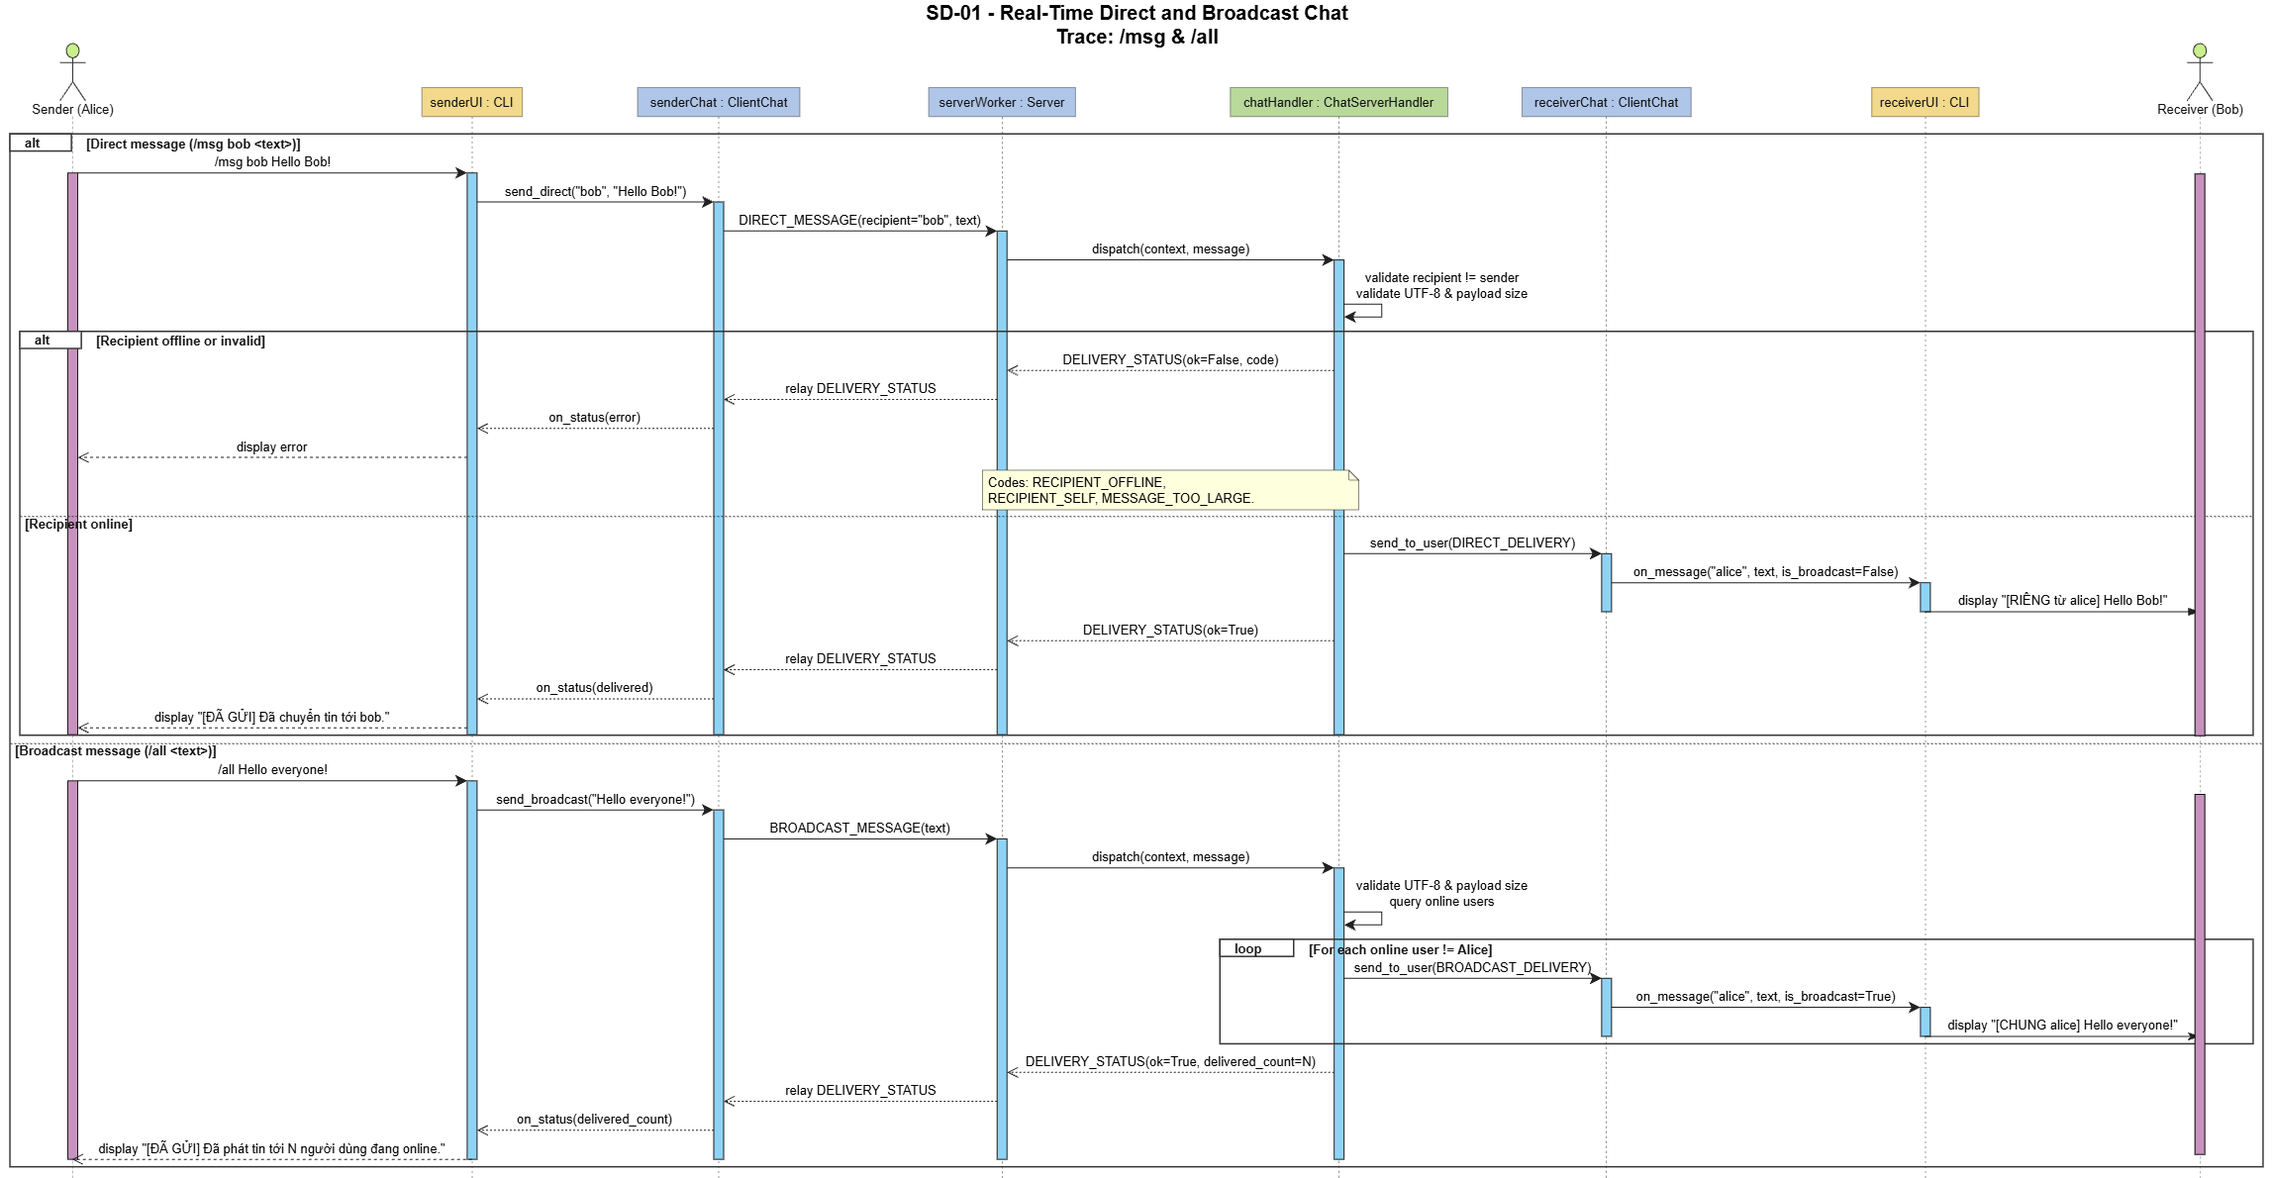
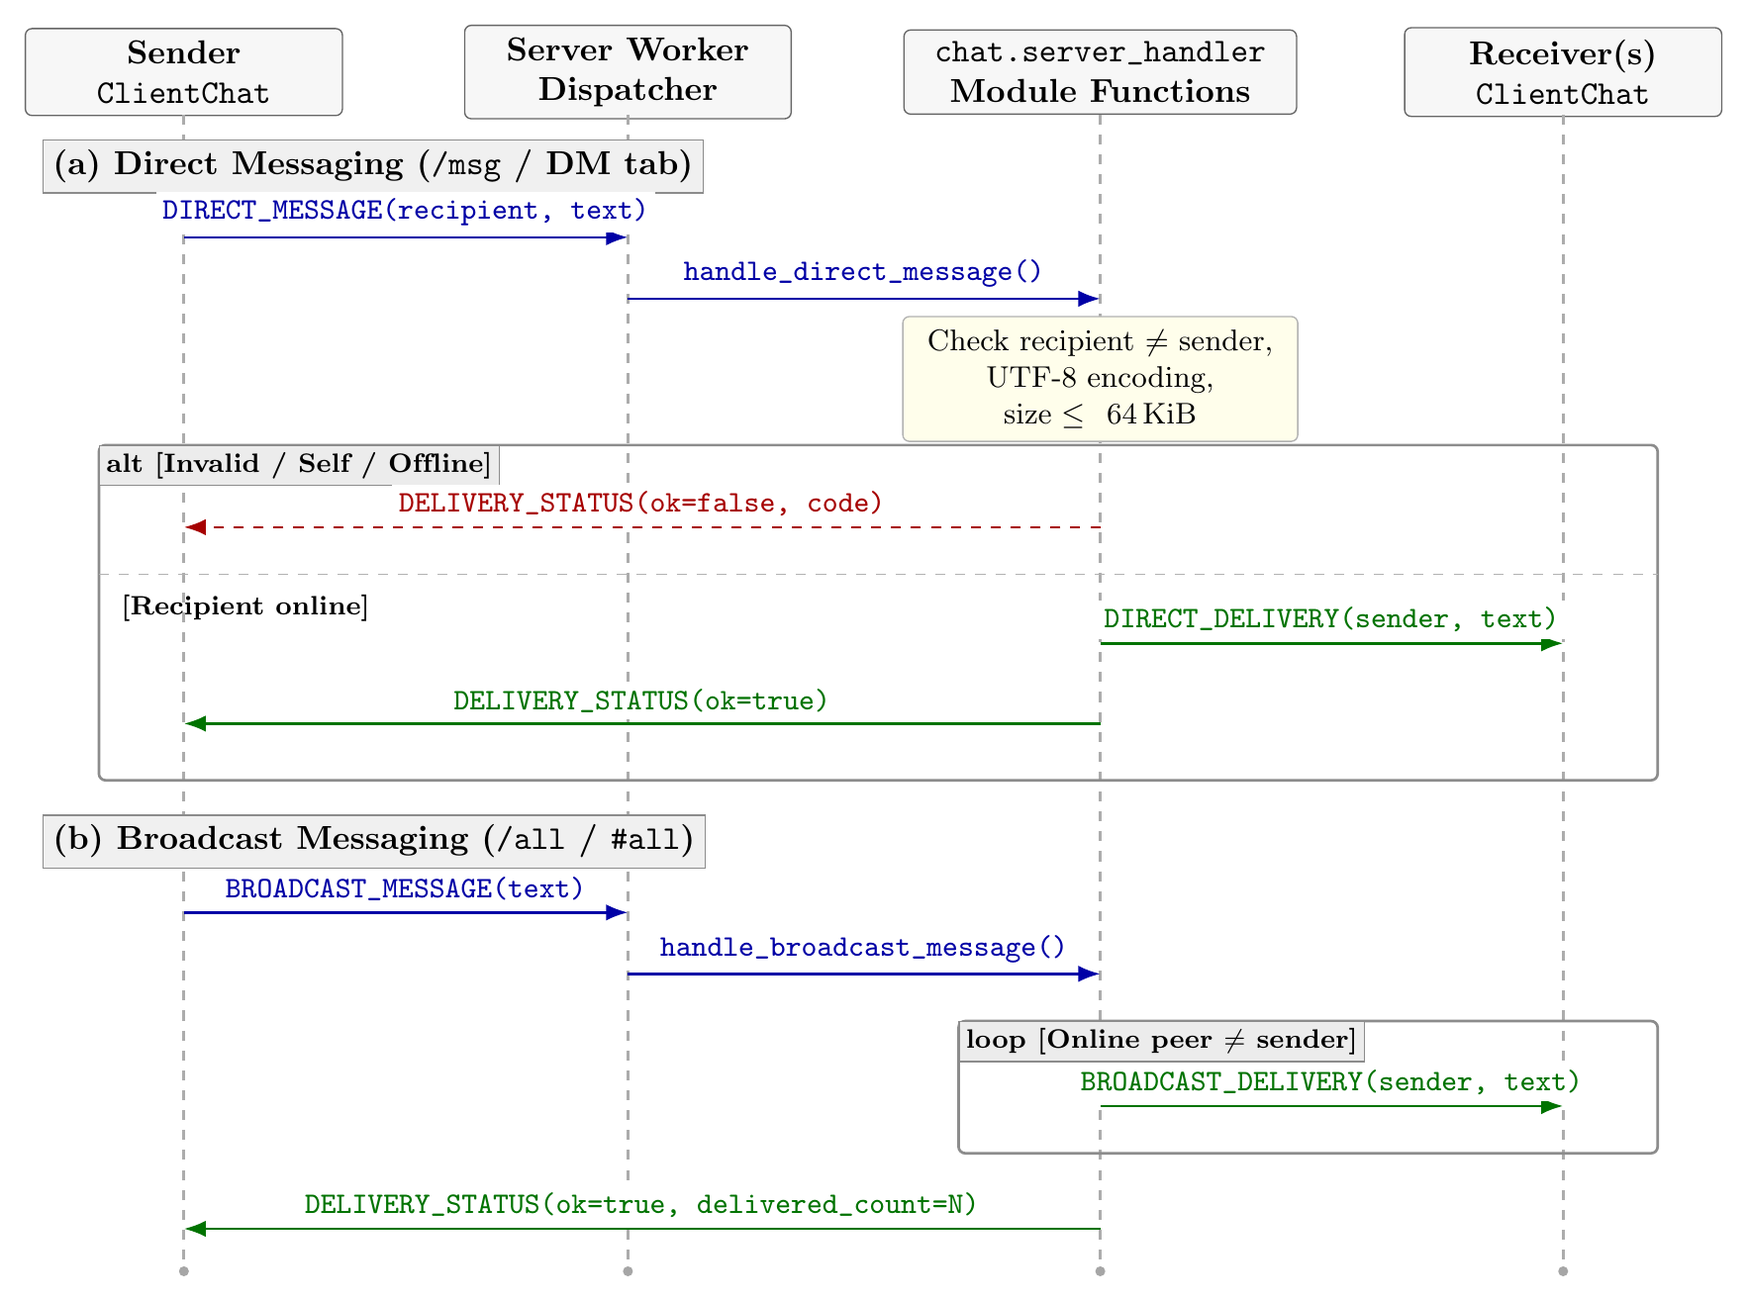
docs: update sequence diagrams, protocol spec, and test counts

diff --git a/docs/test_results.md b/docs/test_results.md
@@ -12,14 +12,14 @@ Hệ thống kiểm thử tự động sử dụng thư viện chuẩn `unittest
   ```bash
   python -m tests.transfer.quick_local_test
   ```
-- Tổng số ca kiểm thử tự động: **129 tests** — kết quả **129/129 đạt (`OK`)** (không lỗi, không cảnh báo rò rỉ file handle).
+- Tổng số ca kiểm thử tự động: **132 tests** — kết quả **132/132 đạt (`OK`)** (không lỗi, không cảnh báo rò rỉ file handle).
 
 ## Phạm vi kiểm thử theo phân hệ
 
-### 1. Hạ tầng mạng & Tích hợp End-to-End (`tests/infrastructure/test_server_infrastructure.py`) — 28 tests
+### 1. Hạ tầng mạng & Tích hợp End-to-End (`tests/infrastructure/test_server_infrastructure.py`) — 29 tests
 - Kiểm tra chuẩn hóa username (`3..20` ký tự ASCII hợp lệ), tách frame TCP bị phân mảnh nhiều gói, từ chối frame vượt quá `1 MB` và JSON sai định dạng.
 - Kiểm tra định tuyến trong `MessageDispatcher`, quản lý phiên `UserRegistry` (trùng tên, dọn phiên hết hạn, khóa đối chiếu định danh socket `remove_if_same`).
-- Kiểm tra xác thực `UDP_HEARTBEAT` bằng HMAC-SHA256 (lệch đồng hồ, sai IP, replay timestamp cũ, sai kiểu dữ liệu/bool, từ chối chữ ký non-ASCII Unicode và bảo đảm luồng `udp_service` tiếp tục sống sau gói tin hỏng), lọc phản hồi `UDP_DISCOVERY_RESPONSE` sai kiểu, cùng kiểm tra đọc `config.json` đầy đủ (fallback `config.example.json` khi thiếu tệp, báo `ValueError` khi thiếu khóa hoặc sai miền giá trị).
+- Kiểm tra xác thực `UDP_HEARTBEAT` bằng HMAC-SHA256 (lệch đồng hồ, sai IP, replay timestamp cũ, sai kiểu dữ liệu/bool, từ chối chữ ký non-ASCII Unicode và bảo đảm luồng `udp_service` tiếp tục sống sau gói tin hỏng), lọc `protocol_version` dạng `bool` hoặc số thực `1.0` ở cả server và client discovery, cùng kiểm tra đọc `config.json` đầy đủ (fallback `config.example.json` khi thiếu tệp, báo `ValueError` khi thiếu khóa hoặc sai miền giá trị).
 - Kiểm tra tính toàn vẹn của phiên vừa đăng nhập lại khi luồng kết nối cũ thoát muộn; kiểm tra đầu vào `ClientSession.connect` và đóng an toàn trong `logout`.
 - **Kiểm thử Live TLS + UDP Loopback E2E:** Khởi chạy server thật với chứng chỉ TLS (`certs/`) và UDP service thật trên cổng ephemeral; chạy trọn quy trình `discover_server()`, đăng nhập 2 client `alice` và `bob`, giữ heartbeat HMAC, trao đổi tin nhắn broadcast/direct và truyền file nhị phân đa chunk (~78 KB) kèm kiểm chứng SHA-256 tệp đích.
 
@@ -29,11 +29,11 @@ Hệ thống kiểm thử tự động sử dụng thư viện chuẩn `unittest
 - Đảm bảo callback báo lỗi của UI không làm sập luồng đọc mạng nền; kiểm tra luồng in bất đồng bộ tương thích `prompt_toolkit`.
 - Kiểm tra hướng dẫn cú pháp cho lệnh thiếu đối số (`/msg`, `/all`, `/sendfile`) và hoàn tác hàng đợi `/sendfile all` khi gửi yêu cầu `LIST_ONLINE` thất bại.
 
-### 3. Truyền tập tin & Toàn vẹn dữ liệu (`tests/transfer/`) — 73 tests
-- `test_integrity.py`: Kiểm tra `SHA-256`, metadata tệp 0 byte / nhiều chunk, kiểm chứng size/hash và các hàm làm sạch/ràng buộc (`is_valid_transfer_id`, `is_safe_filename`, `sanitize_filename`, `parse_non_negative_int`).
+### 3. Truyền tập tin & Toàn vẹn dữ liệu (`tests/transfer/`) — 75 tests
+- `test_integrity.py`: Kiểm tra `SHA-256`, metadata tệp 0 byte / nhiều chunk, kiểm chứng size/hash và các hàm làm sạch/ràng buộc (`is_valid_transfer_id`, `is_safe_filename`, `sanitize_filename`, `parse_non_negative_int` chặn chặt `bool`/`float`/chuỗi/số âm).
 - `test_receiver.py`: Kiểm tra tệp 0 byte, ghi nhiều chunk và kiểm tra SHA-256, chống trùng tên tệp đích, chặn path traversal POSIX/Windows/tên rỗng, chống ép kiểu `bool` ở `filesize`/`total_chunks`/`chunk_index`, xóa tệp `.part` mồ côi lúc khởi động nhưng giữ nguyên các file hoàn chỉnh có chứa `.part` như `archive.part1.rar`.
 - `test_sender.py`: Kiểm tra phát `FILE_INIT`, stream nền theo `FILE_ACCEPT`, chống khởi tạo trùng luồng worker khi nhận nhiều `FILE_ACCEPT`, hủy phiên đang truyền, xóa sạch session trên `cleanup()`, kiểm tra đường dẫn rỗng ở `send_file()`, cô lập lỗi giải mã Base64 theo từng phiên để không ảnh hưởng lượt tải song song khác, giữ nguyên `direction`/`peer` trong sự kiện `FILE_ERROR`, và lan truyền cờ `is_broadcast` hai chiều khi gửi file qua `#all`.
-- `test_server_handler.py`: Kiểm tra đăng ký toàn bộ `FILE_*` handlers, kiểm tra metadata (`filename`, `session_id`, `filesize`, `bool`, `is_broadcast` phải là `bool`, `receiver` rỗng, tự gửi cho bản thân), xác thực máy trạng thái & phân quyền vai trò, thu dọn `timeout` và ngắt kết nối (kể cả không gửi trùng lỗi sau khi phiên đã kết thúc bằng `FILE_RESULT`/`FILE_ERROR`), cùng cô lập `ValueError` vs `OSError` trong bridge gửi dữ liệu.
+- `test_server_handler.py`: Kiểm tra đăng ký toàn bộ `FILE_*` handlers, kiểm tra metadata (`filename`, `session_id`, `filesize`, `bool`, `is_broadcast` phải là `bool`, `receiver` rỗng, tự gửi cho bản thân), xác thực máy trạng thái & phân quyền vai trò (kể cả chặn `FILE_RESULT` sớm trước `FILE_END` đối với tệp $> 0$ byte trong khi vẫn giữ luồng tệp 0 byte), thu dọn `timeout` và ngắt kết nối (kể cả không gửi trùng lỗi sau khi phiên đã kết thúc bằng `FILE_RESULT`/`FILE_ERROR`), cô lập lỗi chuyển tiếp một phiên khi người nhận vẫn đang online để không làm gián đoạn các phiên truyền song song khác, cùng cô lập `ValueError` vs `OSError` trong bridge gửi dữ liệu.
 - `test_transfer.py` & `quick_local_test.py`: Xác nhận truyền tải end-to-end (tệp rỗng 0 byte, tệp nhỏ, tệp nhiều chunk, dữ liệu nhị phân thô `0..255`, ngắt kết nối đột ngột dọn `.part`, sai lệch hash).
 
 ### 4. Giao diện Desktop PySide6 GUI (`tests/ui/test_gui_session_and_models.py`) — 21 tests

diff --git a/docs/architecture.md b/docs/architecture.md
@@ -49,7 +49,7 @@
 - `message_dispatcher.py`: Định tuyến thông điệp JSON theo trường `type` thông qua `ClientContext` (tách biệt logic nghiệp vụ khỏi socket thô).
 - `udp_service.py`: Đáp ứng bản tin `UDP_DISCOVER`, tiếp nhận `UDP_HEARTBEAT` ký HMAC và chạy nền dọn các phiên hết hạn heartbeat (`timeout_seconds = 35`). Mỗi vòng lặp/gói tin được cô lập ngoại lệ với logging đầy đủ để một datagram sai định dạng không thể làm dừng luồng UDP; khi phiên hết hạn, dịch vụ tự động kích hoạt dọn dẹp các phiên truyền file liên quan.
 - `server.py`: Đón kết nối TCP, thực hiện TLS handshake (giới hạn timeout pre-login tránh giữ socket treo), đăng ký phiên trong `UserRegistry`, và phân phối thông điệp tới handler của `chat` và `transfer`.
-- `client_connection.py`: Đảm nhận UDP discovery trên các địa chỉ broadcast/hướng đích (bỏ qua loopback không hợp lệ khi không cần thiết và loại bỏ phản hồi chứa kiểu dữ liệu sai như `bool` cho port/version), kết nối TLS, đăng nhập lấy `heartbeat_token`, chạy luồng nền đọc gói tin, gửi định kỳ UDP heartbeat có ký HMAC và cung cấp API công khai (`get_tls_details()`, `receiver_thread`) cho tầng UI.
+- `client_connection.py`: Đảm nhận UDP discovery trên các địa chỉ broadcast/hướng đích (bỏ qua loopback không hợp lệ khi không cần thiết và loại bỏ phản hồi chứa kiểu dữ liệu sai như `bool` hoặc số thực `float` cho `protocol_version`/`tcp_port`), kết nối TLS, đăng nhập lấy `heartbeat_token`, chạy luồng nền đọc gói tin, gửi định kỳ UDP heartbeat có gắn mã xác thực HMAC và cung cấp API công khai (`get_tls_details()`, `receiver_thread`) cho tầng UI.
 
 ![Sơ đồ trạng thái kết nối và truyền tập tin](diagrams/state_diagrams.png)
 
@@ -59,8 +59,8 @@
 ![Luồng hoạt động Chat](diagrams/chat_sequence.png)
 
 ### 4. `transfer/` — Truyền tập tin & Toàn vẹn dữ liệu
-- `integrity.py`: Tính toán `SHA-256` đọc theo luồng khối, kiểm tra kích thước/hash tệp đích (`verify_file`), đồng thời cung cấp các hàm kiểm tra an toàn dùng chung: `is_valid_transfer_id` (chặn khoảng trắng, `..`, ký tự phân cách đường dẫn), `is_safe_filename`, `sanitize_filename` (lọc path traversal Windows/POSIX về basename an toàn), và `parse_non_negative_int` (chặn giá trị `bool`, số âm và kiểu không hợp lệ).
-- `server_handler.py`: Điều phối phiên truyền file (`ServerTransferSession`) bằng máy trạng thái chặt chẽ (`INIT -> ACCEPTED -> TRANSFERRING -> WAITING_RESULT -> COMPLETED | FAILED`) dưới một khóa đồng bộ thống nhất trước khi thực hiện I/O mạng. Khi chuyển tiếp tới người nhận thất bại do lỗi tuần tự hóa (`ValueError`), bridge chỉ hủy phiên truyền thay vì đóng nhầm socket người nhận; lỗi socket (`OSError`) mới kích hoạt ngắt kết nối và thông báo `ERR_PEER_DISCONNECTED` cho bên còn lại. Server định kỳ dọn các phiên treo quá `60s`.
+- `integrity.py`: Tính toán `SHA-256` đọc theo luồng khối, kiểm tra kích thước/hash tệp đích (`verify_file`), đồng thời cung cấp các hàm kiểm tra an toàn dùng chung: `is_valid_transfer_id` (chặn khoảng trắng, `..`, ký tự phân cách đường dẫn), `is_safe_filename`, `sanitize_filename` (lọc path traversal Windows/POSIX về basename an toàn), và `parse_non_negative_int` (chỉ nhận số nguyên `int >= 0`, chặn `bool`, `float`, chuỗi và số âm).
+- `server_handler.py`: Điều phối phiên truyền file (`ServerTransferSession`) bằng máy trạng thái chặt chẽ (`INIT -> ACCEPTED -> TRANSFERRING -> WAITING_RESULT -> COMPLETED | FAILED`, riêng tệp `0` byte cho phép `INIT -> COMPLETED`) dưới một khóa đồng bộ thống nhất trước khi thực hiện I/O mạng. Khi chuyển tiếp thất bại trong `_handle_relay`, server kiểm tra `is_user_online`: nếu người nhận vẫn online (lỗi tuần tự hóa khung `ValueError`) thì chỉ hủy duy nhất phiên lỗi (`ERR_INVALID_METADATA`) mà không ảnh hưởng các phiên khác; chỉ khi mất kết nối thực sự mới gọi `on_client_disconnect` và phát `ERR_PEER_DISCONNECTED`. Server định kỳ dọn các phiên treo quá `60s`.
 - `sender.py`: Gồm `FileSender` (chia chunk `65536` byte, gắn cờ `started` chống kích hoạt trùng luồng gửi khi nhận nhiều `FILE_ACCEPT`, thu dọn an toàn khi hủy giữa chừng, gắn cờ `is_broadcast` trên `FILE_INIT` khi phát chung) và `ClientFileTransferManager` (đóng/mở gói `binary_payload_base64` qua JSON, cô lập lỗi Base64 theo đúng `session_id` bị hỏng mà không làm gián đoạn các phiên đang tải khác, giữ nguyên `direction`/`peer`/`is_broadcast` trong sự kiện gửi UI, và truyền thống nhất `DEFAULT_DOWNLOADS_DIR` cho `FileReceiver`).
 - `receiver.py`: Khởi tạo tệp tạm `.<session_id>_<safe_name>.part` trong thư mục `downloads/` (`DEFAULT_DOWNLOADS_DIR`), hoàn tất ngay lập tức đối với tệp 0 byte, ghi tuần tự theo `chunk_index` (chặn `bool`), kiểm tra dung lượng & `SHA-256` trước khi đổi tên nguyên tử sang tên đích (tự thêm hậu tố `(1)`, `(2)` nếu trùng tên), và dọn các tệp `.part` mồ côi lúc khởi động mà không đụng tới các tập tin có `.part` nằm giữa tên như `archive.part1.rar`.
 

diff --git a/docs/protocol.md b/docs/protocol.md
@@ -68,9 +68,10 @@ Khi truyền trên kênh JSON chung, dữ liệu nhị phân của chunk đượ
 ### Máy trạng thái phiên tại Server & Kiểm tra an toàn
 
 - Vòng đời trạng thái hợp lệ trong `FileTransferServerHandler`:
-  `INIT` --(`FILE_ACCEPT` bởi receiver)--> `ACCEPTED` --(`FILE_CHUNK` bởi sender)--> `TRANSFERRING` --(`FILE_END` bởi sender)--> `WAITING_RESULT` --(`FILE_RESULT` bởi receiver)--> `COMPLETED`.
-- Các thông điệp kết thúc (`FILE_RESULT`, `FILE_ERROR`) giải phóng ngay `ServerTransferSession` dưới khóa đồng bộ trước khi đẩy qua mạng; phiên không hoạt động quá `60` giây bị hàm `prune_stale_sessions` thu hồi và báo `ERR_SESSION_TIMEOUT`.
-- Server xác thực nghiêm ngặt: `session_id` hợp lệ (không rỗng, không khoảng trắng, không chứa `/`, `\`, `..`, `:`), `filename` là basename đơn hợp lệ, các trường số nguyên (`filesize`, `chunk_size`, `total_chunks`, `chunk_index`) không âm và từ chối kiểu `bool`, trường tùy chọn `is_broadcast` phải có kiểu `bool` (trả `ERR_INVALID_METADATA` nếu sai kiểu), đồng thời ghi đè `header["sender"]` bằng danh tính kết nối TLS thực tế.
+  - Tập tin khác rỗng (`filesize > 0`): `INIT` --(`FILE_ACCEPT` bởi receiver)--> `ACCEPTED` --(`FILE_CHUNK` bởi sender)--> `TRANSFERRING` --(`FILE_END` bởi sender)--> `WAITING_RESULT` --(`FILE_RESULT` bởi receiver)--> `COMPLETED`. `FILE_RESULT` trước `FILE_END` bị từ chối bằng `ERR_INVALID_STATE`.
+  - Tập tin rỗng (`filesize == 0`): Cho phép `FILE_RESULT` trực tiếp từ trạng thái `INIT` (hoặc `WAITING_RESULT`) để chuyển sang `COMPLETED`.
+- Các thông điệp kết thúc (`FILE_RESULT`, `FILE_ERROR`) giải phóng ngay `ServerTransferSession` dưới khóa đồng bộ trước khi đẩy qua mạng; nếu chuyển tiếp một khung thất bại khi người nhận vẫn đang online, chỉ duy nhất phiên lỗi bị hủy mà không ngắt các phiên truyền file khác. Phiên không hoạt động quá `60` giây bị `prune_stale_sessions` thu hồi và báo `ERR_SESSION_TIMEOUT`.
+- Server xác thực nghiêm ngặt: `session_id` hợp lệ (không rỗng, không khoảng trắng, không chứa `/`, `\`, `..`, `:`), `filename` là basename đơn hợp lệ, các trường số nguyên (`filesize`, `chunk_size`, `total_chunks`, `chunk_index`) phải là số nguyên nguyên bản không âm (`int`, loại trừ `bool`, `float` và chuỗi), trường tùy chọn `is_broadcast` phải có kiểu `bool` (trả `ERR_INVALID_METADATA` nếu sai kiểu), đồng thời ghi đè `header["sender"]` bằng danh tính kết nối TLS thực tế.
 
 ![Sơ đồ máy trạng thái phiên kết nối và truyền tập tin](diagrams/state_diagrams.png)
 
@@ -106,7 +107,7 @@ Khi truyền trên kênh JSON chung, dữ liệu nhị phân của chunk đượ
     "tcp_port": 5000
   }
   ```
-- Client chỉ chấp nhận phản hồi có `protocol_version` khớp cấu hình (`int`, loại trừ `bool`) và `tcp_port` nằm trong `[1, 65535]`.
+- Cả server (khi nhận `UDP_DISCOVER`) và client (khi nhận `UDP_DISCOVERY_RESPONSE`) đều kiểm tra `protocol_version` là số nguyên khớp cấu hình (loại trừ `bool` và `float`); client đồng thời kiểm tra `tcp_port` là số nguyên trong `[1, 65535]`.
 
 ### Duy trì phiên sống (`UDP_HEARTBEAT`)
 - Mỗi client định kỳ gửi gói tin được ký bằng `heartbeat_token` (token bí mật do server cấp qua TLS khi `LOGIN_OK`):

diff --git a/README.md b/README.md
@@ -29,7 +29,7 @@ pip install -r requirements.txt
 
 Nếu cần tùy chỉnh cổng hoặc đường dẫn chứng chỉ cục bộ, sao chép [config.example.json](config.example.json) thành `config.json` trước khi chạy (chi tiết xem [docs/configuration.md](docs/configuration.md)).
 
-> **Chứng chỉ TLS phát triển:** Gói nộp ZIP tạo từ `scripts/package_submission.py` giữ sẵn `certs/dev-ca.pem`, `certs/server-cert.pem` và `certs/private/server-key.pem` (chỉ loại `certs/private/dev-ca-key.pem`) để chạy thử nghiệm cục bộ. Nếu clone từ Git (thư mục `certs/private/` bị bỏ qua theo `.gitignore`), có thể tạo lại cặp CA và chứng chỉ server phát triển bằng OpenSSL:
+> **Chứng chỉ TLS phát triển:** Gói nộp ZIP tạo từ `scripts/package_submission.py` giữ sẵn `certs/dev-ca.pem`, `certs/server-cert.pem` và `certs/private/server-key.pem` (chỉ loại `certs/private/dev-ca-key.pem`) để chạy thử nghiệm cục bộ. Nếu clone từ Git (thư mục `certs/private/` bị bỏ qua theo `.gitignore`), có thể tạo lại cặp CA và chứng chỉ server phát triển bằng OpenSSL (chạy trên **Linux / macOS / Git Bash**):
 >
 > ```bash
 > mkdir -p certs/private
@@ -43,6 +43,8 @@ Nếu cần tùy chỉnh cổng hoặc đường dẫn chứng chỉ cục bộ,
 >   -CAkey certs/private/dev-ca-key.pem -CAcreateserial \
 >   -out certs/server-cert.pem -days 365 -sha256 -extfile certs/server.ext
 > ```
+>
+> Trên **Windows PowerShell**, tạo thư mục bằng `New-Item -ItemType Directory -Force -Path certs/private | Out-Null` và chạy các lệnh `openssl` trên một dòng (hoặc dùng dấu `` ` `` thay cho `\`).
 
 ## Hướng dẫn sử dụng
 
@@ -90,7 +92,7 @@ Các lệnh trong CLI (hoặc nhập văn bản trực tiếp để gửi chat c
 
 ## Kiểm thử tự động
 
-Chạy toàn bộ **129** unit test và integration test (bao gồm kiểm thử loopback trực tiếp qua UDP + TLS):
+Chạy toàn bộ **132** unit test và integration test (bao gồm kiểm thử loopback trực tiếp qua UDP + TLS):
 
 ```bash
 python -m unittest discover -s tests -t . -v
